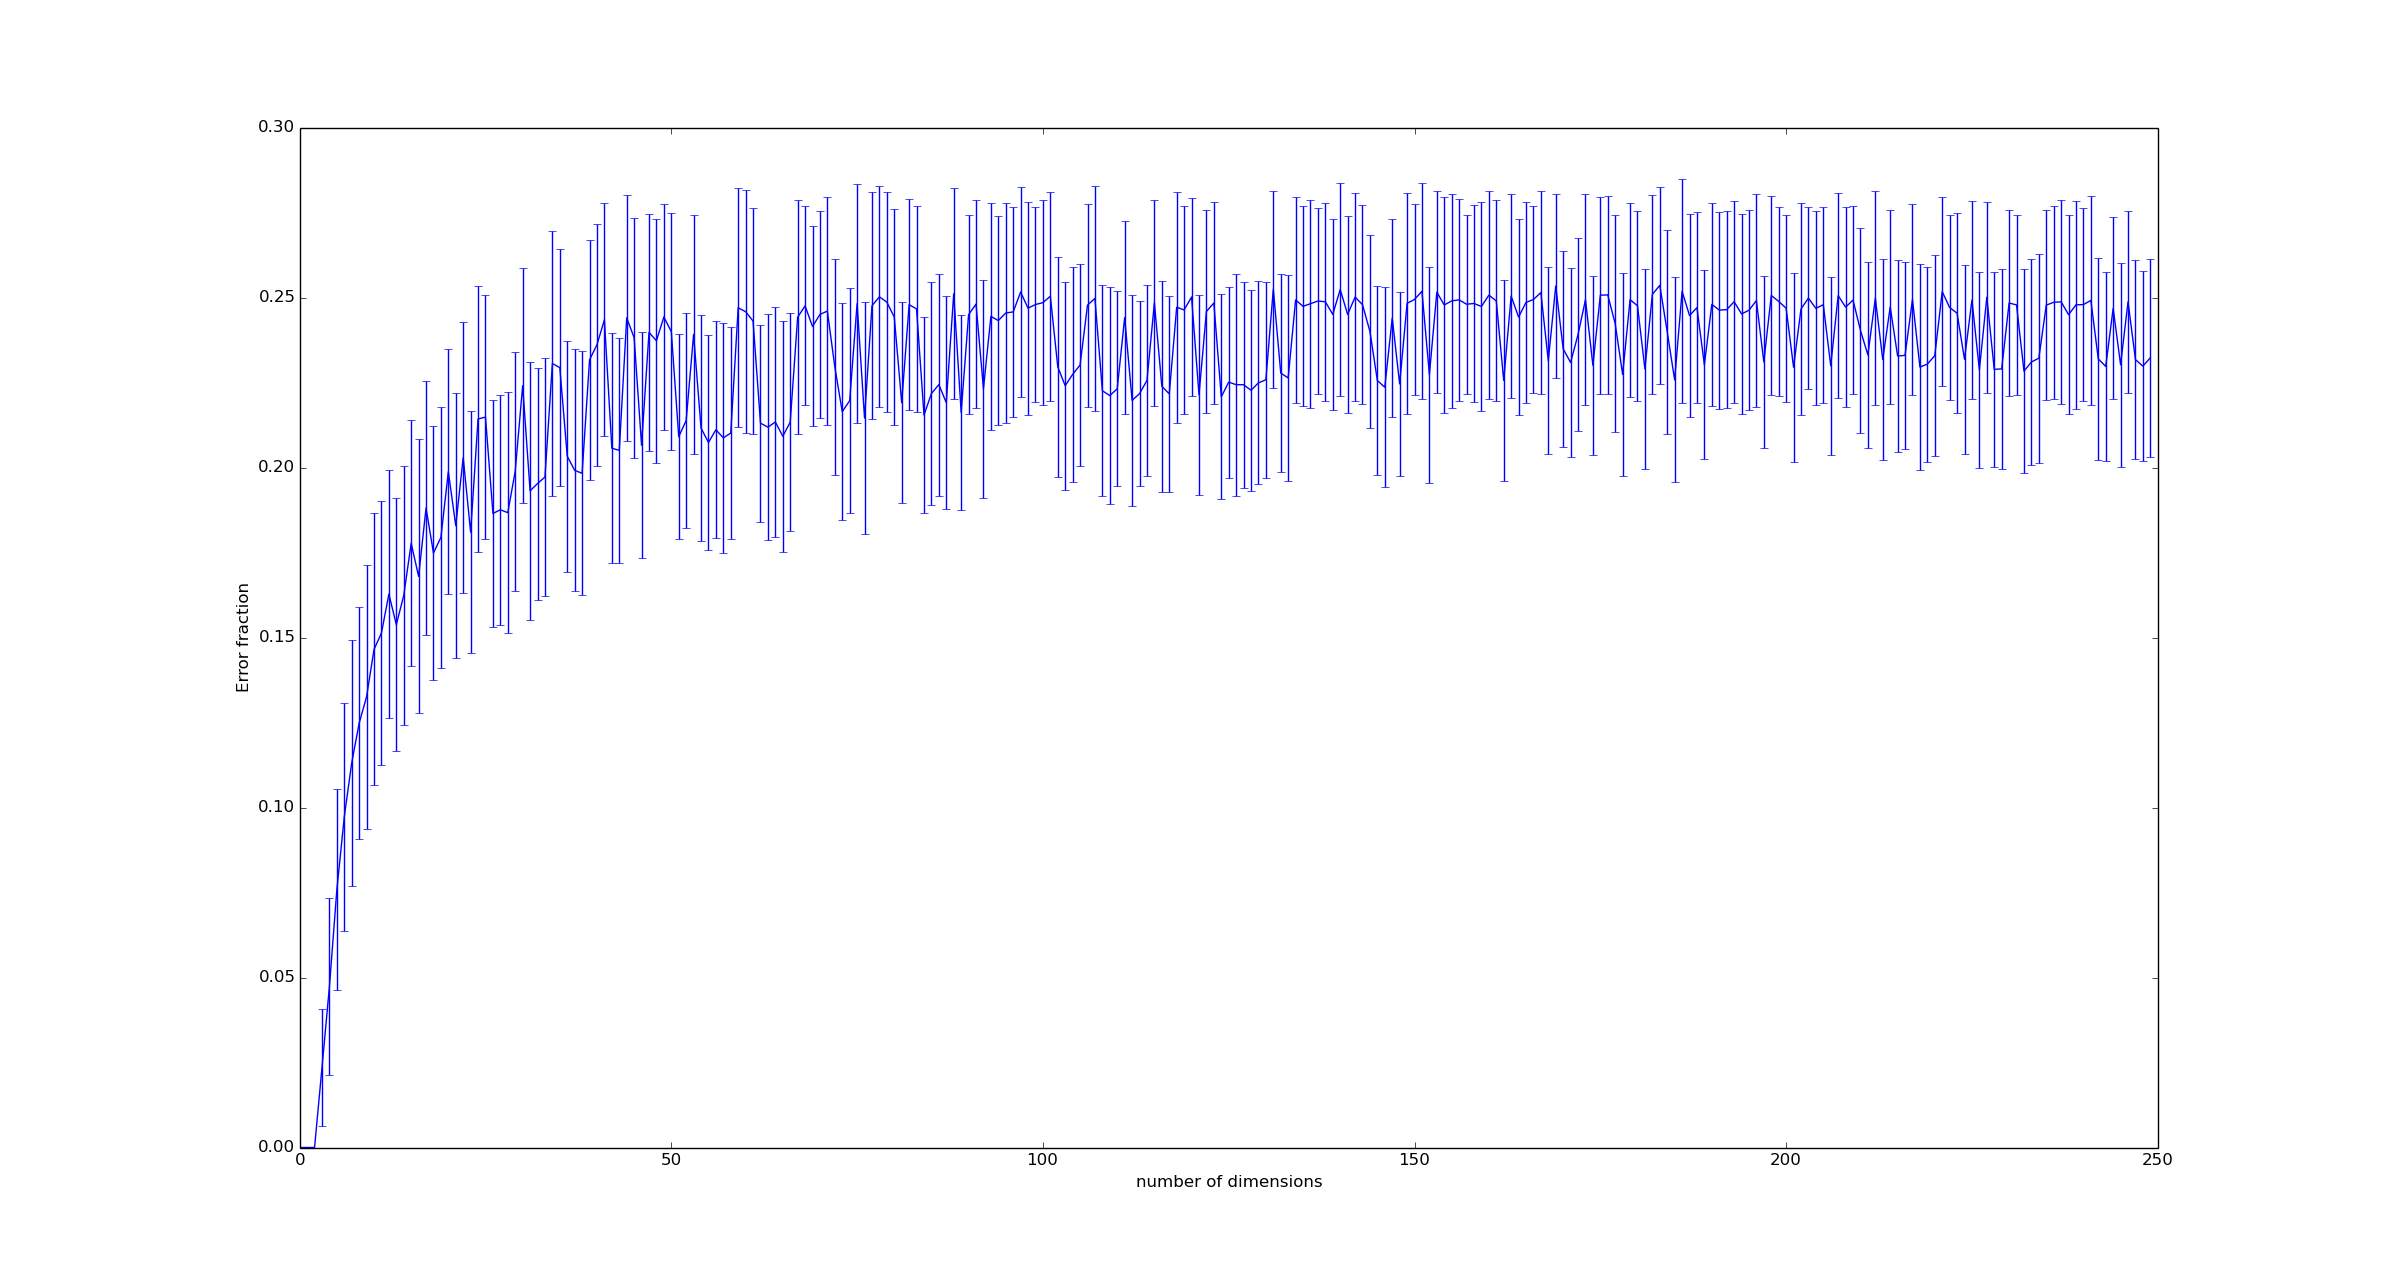
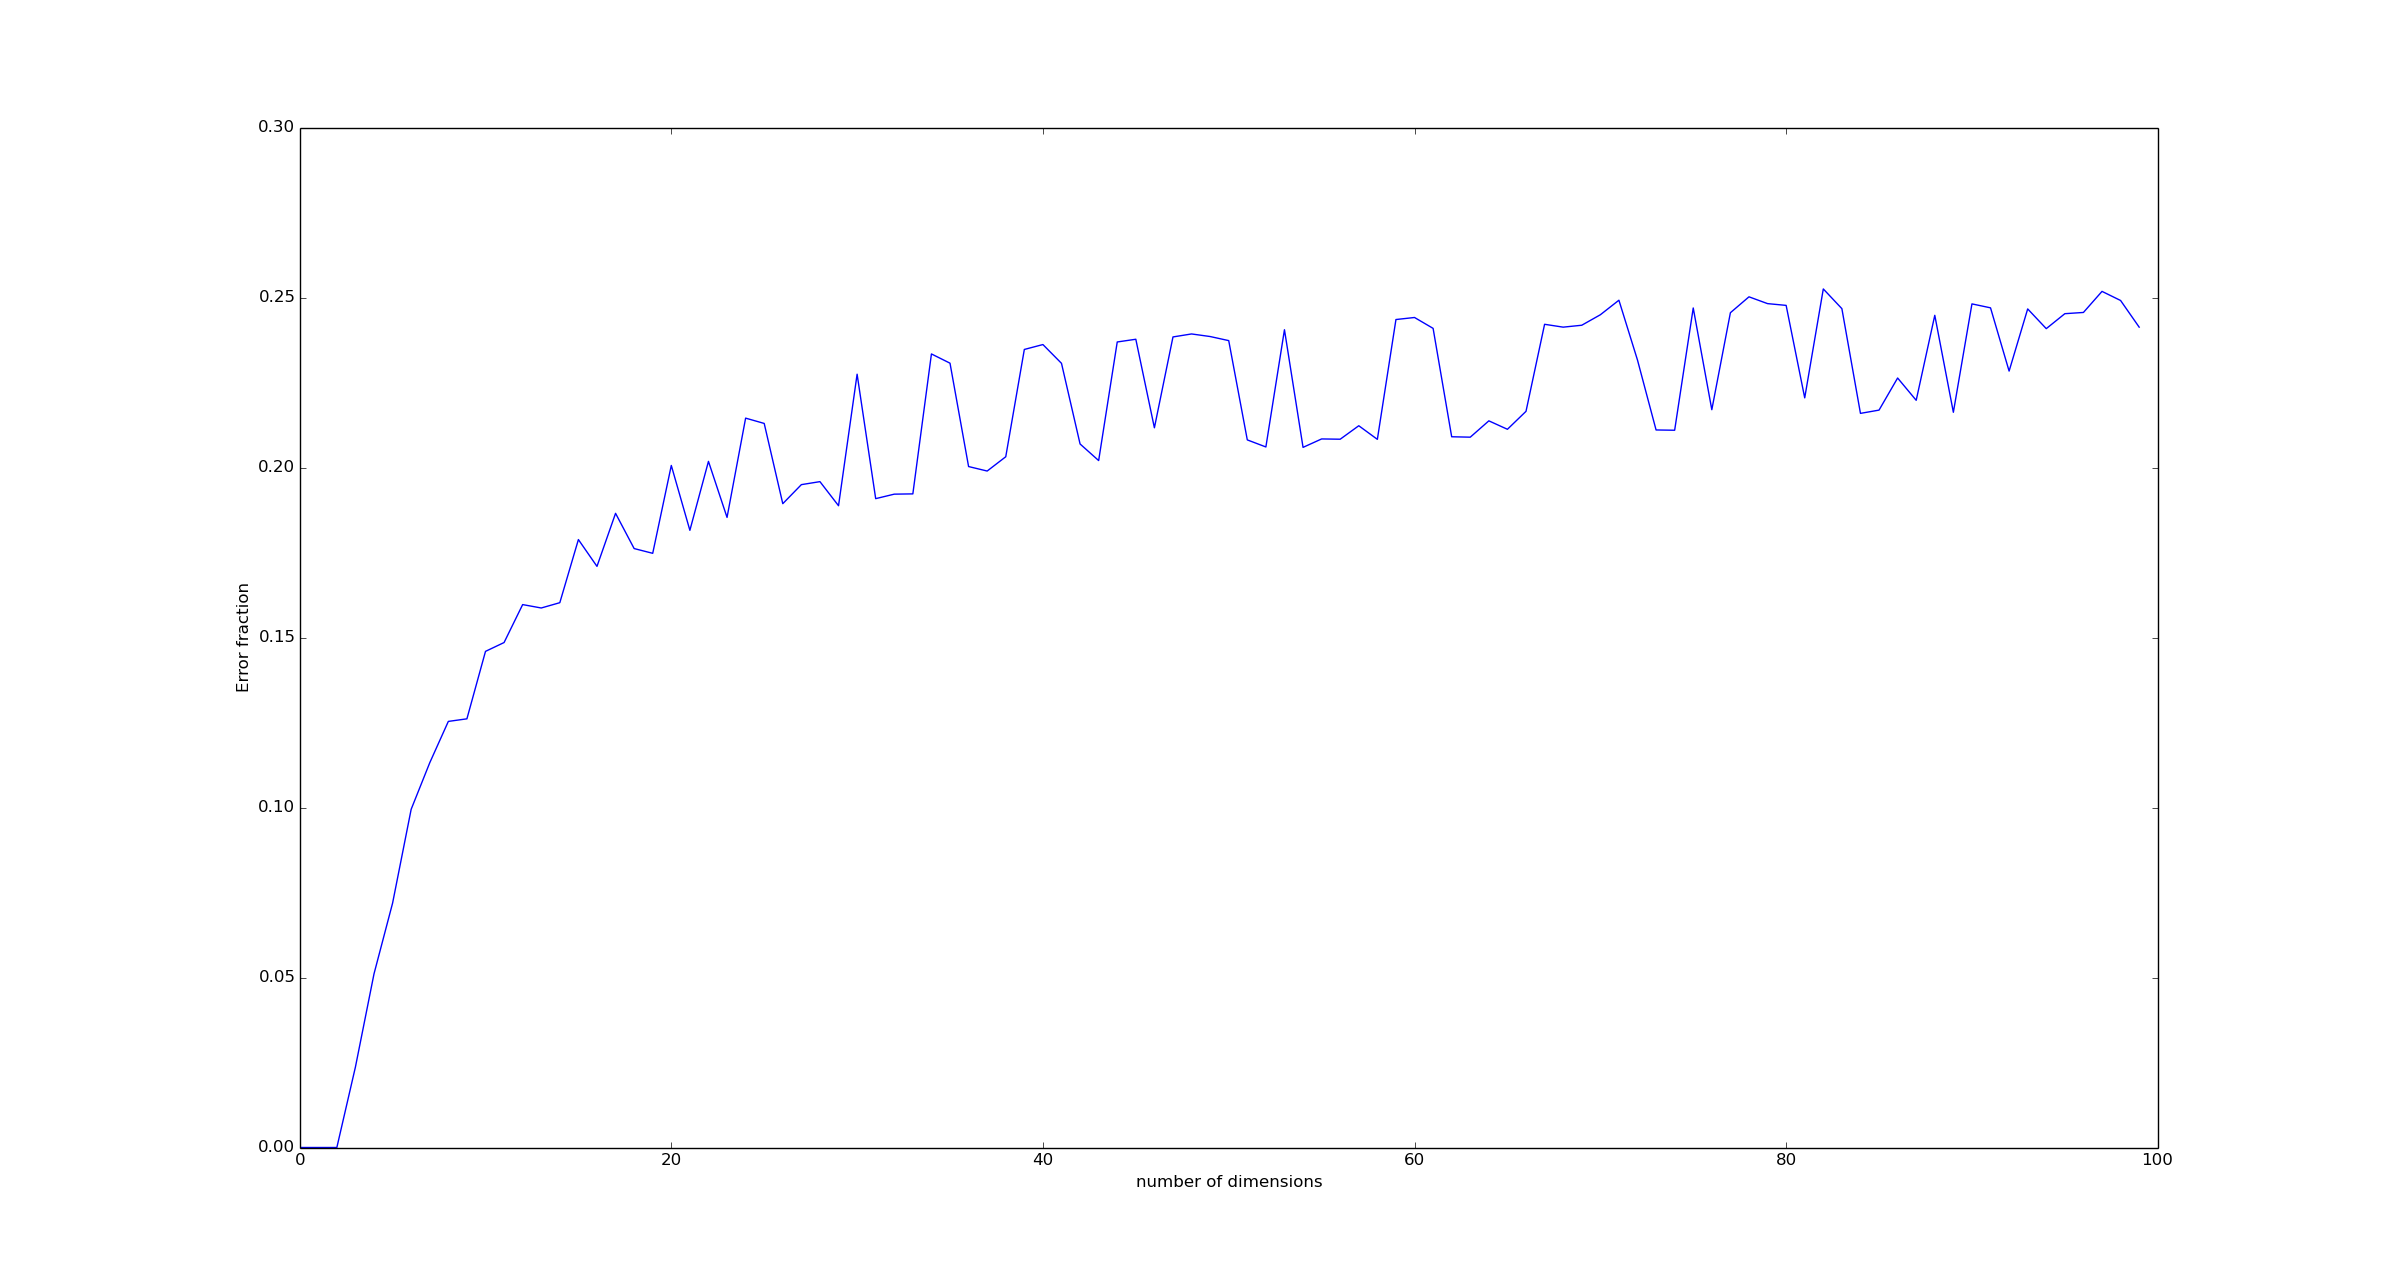
updating equal weights post

Changed region(s): [[0.1235, 0.1529, 0.8953, 0.7647], [0.1235, 0.7953, 0.1544, 0.8565]]

diff --git a/pelican/content/blog_media/2014/equal_weights/equal_weights_monte_carlo.py b/pelican/content/blog_media/2014/equal_weights/equal_weights_monte_carlo.py
@@ -51,11 +51,11 @@ if __name__=="__main__":
         gaussian[n] = ranking(n, feature_method="gaussian")[0]
         print "Up to " + str(n) + " dimensions"
     plot(d, bernoulli, label="Bernoulli")
-    plot(d, gaussian, label="Gaussian")
-    plot(d, 2*arctan(sqrt((d-1)/(d+1)))/(2*pi), label="theoretical gaussian bound")
+#    plot(d, gaussian, label="Gaussian")
+#    plot(d, 2*arctan(sqrt((d-1)/(d+1)))/(2*pi), label="theoretical gaussian bound")
 #    plot(d, um)
 
     xlabel("number of dimensions")
     ylabel("Error fraction")
-    legend()
+#    legend()
     show()

diff --git a/pelican/content/equal_weights.md b/pelican/content/equal_weights.md
@@ -4,11 +4,17 @@ author: Chris Stucchio
 tags: linear regression, regression, statistics, unit-weighted regression
 mathjax: true
 
-I'm currently dating two lovely women - I'll describe them by the pseudonyms Svetlana and Elise. Unfortunately they are both growing attached to me, so the time has come for me to make a choice between them. In order to make such a choice, I wish to construct an approximation to my long term happiness - a function $@ f : \textrm{Women} \rightarrow \mathbb{R} $@ which approximately predicts my happiness with a given choice. I can then compute $@ f(\textrm{Svetlana}) $@ and $@ f(\textrm{Elise}) $@ and choose whichever one is larger - if my approximation is well chosen I will make the *utility* maximizing choice most of the time.
+I'm currently dating two lovely women, Svetlana and Elise. Unfortunately continuing to date both of them is unsustainable so I must choose one. In order to make such a choice, I wish to construct an approximation to my long term happiness - a function $@ f : \textrm{Women} \rightarrow \mathbb{R} $@ which approximately predicts my happiness with a given choice. I can then compute $@ f(\textrm{Svetlana}) $@ and $@ f(\textrm{Elise}) $@ and choose whichever one is larger - if my approximation is well chosen I will make the *utility* maximizing choice most of the time.
 
 In statistics we have many techniques for computing such a function, [linear regression](http://en.wikipedia.org/wiki/Linear_regression) being a simple example. Unfortunately, linear regression is relatively useless to me in this case - linear regression requires a considerable number of samples, and I have not dated sufficiently many women nor kept careful records of my happiness.
 
-Instead, I'm going to discuss a much simpler predictor, first described in [1772 by Benjamin Franklin](http://www.procon.org/view.background-resource.php?resourceID=1474). The mathematical name for it is [unit weighted regression](http://en.wikipedia.org/wiki/Unit-weighted_regression), and the practical name for it is a list of pros and cons:
+Instead, I'm going to discuss a much simpler method of making decisions, described in [1772 by Benjamin Franklin](http://www.procon.org/view.background-resource.php?resourceID=1474):
+
+> ...my Way is, to divide half a Sheet of Paper by a Line into two Columns, writing over the one Pro, and over the other Con. Then...I put down under the different Heads short Hints of the different Motives...I find at length where the Ballance lies...I come to a Determination accordingly.
+
+The mathematical name for it is [unit weighted regression](http://en.wikipedia.org/wiki/Unit-weighted_regression). I present the method in a slightly different format - in each column a different choice is listed. Each row represents a characteristic, all of which are pros. A con is transformed into a pro by negation - rather than treating "disturbs my work" as a con, I treat "Lets me work" as a pro.
+
+If a woman posesses the characteristic under discussion, a +1 is assigned to the relevant row/column, otherwise 0 is assigned:
 
 <table>
 <tr><th>Characteristic</th><th>Elise</th><th>Svetlana</th></tr>
@@ -23,17 +29,57 @@ Instead, I'm going to discuss a much simpler predictor, first described in [1772
 
 
 
-Technically that's only a list of pros - I'm treating the negation of a Con as a Pro.
-
 Unit-weighted regression consists of taking the values in each column and adding them up. Each value is either zero or one. The net result is that $@ f(\textrm{Elise}) = 4 $@ and $@ f(\textrm{Svetlana}) = 3 $@. Elise it is!
 
-# Unit-weighted regression is easy
+(The names and characteristics of the women in question are of course obfuscated.)
 
-One of the clearest benefits of unit-weighted regression is how easy it is for an expert to formulate a model. As an expert in my own personal choices, I am confident that I enjoy women from Africa more than women from Eastern Europe, intelligent women more than stupid ones, and that I enjoy being allowed to work without interruption. I am not confident I can apply proper weights to these facts, but I am confident they are all positive and significant.
+# Pro/Con lists are easy
 
-Another important benefit is that unit weighted regression has far fewer degrees of freedom than most other regression models. The only relevant choice when building a unit-weighted regression model is what values to include and what sign to include them with. The general rule of thumb is that if a variable's sign is questionable it should be excluded from the model.
+A pro/con list is one of the simplest ranking algorithms you can construct. The mathematical sophistication required is grade school arithmetic and it's so easy to program that even a RoR hipster could do it. As a result, you should not hesitate to implement a pro/con list for decision processes.
 
-An obvious question is why I would use *unit* weighted regression rather than *linear* regression - perhaps fitting a least squares model to available data. The reason for that is simply sample size. Consider the example above - I have not dated sufficiently many women to robustly fit a 7-dimensional linear model to the available data. Additionally, I have not kept sufficiently accurate records even with this smaller sample size.
+The key factor in the success of unit-weighted regression is feature selection. The rule of thumb here is very simple - choose features which you have good reason to believe are strongly predictive of the quantity you wish to rank. Such features can usually be determined without a lot of data - typically a combination of expert opinion and easy correlations are sufficient. For example, I do not need a large amount of data to determine that I consider "not fat" to be a positive predictor of my happiness with a woman.
+
+Conversely, if the predictiveness of a feature is not clear, it should not be used.
+
+## Linear regression is hard
+
+An obvious question the reader might ask is why I would ever use unit-weighted regression, as opposed to the more general *linear* regression predictor. Linear regression is a lot like a pro/con list, except that the weight of each feature is allowed to vary. In mathematical terms, we represent each possible choice as a binary vector - for example:
+
+$$ \vec{\textrm{Elise}} = [ 0, 1, 1, 0, 1, 1, 0] $$
+
+Then the predictor function uses a set of weights which can take on values other than $@ +1 $@:
+
+$$ f(\vec{x}) = \sum_i h_i x_i $$
+
+The individual weights $@ f_i $@ represent how important each variable is. For example, "Smart" might receive a weight of +3.3, "Not fat" a weight of +3.1 and "Black" a weight of +0.9.
+
+The weights can be determined with a reasonable degree of accuracy by taking past data and choosing the weights which minimize the difference between the "true" value and the approximate value - this is what [least squares](http://en.wikipedia.org/wiki/Least_squares) does.
+
+Fitting a linear model only works when you have sufficient data. To robustly fit a linear model, you'll need tens to hundreds of data points *per feature*. If you have too few data points, you run into a real danger of overfitting - building a model which accurately memorizes the past, but fails to predict the future. You can even run into this problem if you have lots of data points, but those data points don't represent all the features in question.
+
+It also requires more mathematical and programming sophistication to build.
+
+In principle fitting a linear model to the data is the right way to go. After all, in real life, some factors are 3x or 10x more important than others. But in practice, it can be difficult to do it right.
+
+# How well does it work?
+
+This is where things get interesting. It turns out that Pro/Con list is at least 75% as good as a linear regression model.
+
+Suppose we've done linear regression and found linear regression coefficients $@ \vec{h} $@. Suppose instead of using the vector $@ \vec{h} $@, we instead used the vector of unit weights, $@ \vec{u} = [ 1/N, 1/N, \ldots, 1/N] $@. Here $@ N $@ is the number of features in the model.
+
+An error is made whenever the pro/con list and linear regression rank two vectors differently - i.e., linear regression says "choose Elise" while the pro/con list says "choose Svetlana". The *error rate* of the pro/con list is the probability of making an error given two random *feature vectors* $@ \vec{x} $@ and $@ \vec{y} $@, i.e.:
+
+$$ \textrm{error rate} = P( \textrm{sign}( [\vec{h} \cdot (\vec{x} - \vec{y})] [\vec{u} \cdot (\vec{x} - \vec{y})] ) < 0 ) $$
+
+It turns out that if you average it out over all vectors $@ \vec{h} $@, the error rate is bounded by 1/4. There are of course vectors $@ \vec{h} $@ for which the error rate is higher, and others for which it is lower. But on average, the error rate is bounded by 1/4.
+
+In this sense, the pro/con list is 75% as good as linear regression.
+
+We can confirm this fact by computer simulation - generating a random ensemble of vectors $@ \vec{h} $@, and then measuring how accurately unit-weighted regression agrees with it. The result:
+
+![distribution of errors](/blog_media/2014/equal_weights/equal_weight_ranking_errors.png)
+
+[Code is available](https://gist.github.com/stucchio/f5d0455fa58a4c733eba).
 
 # A simple model of regression
 
